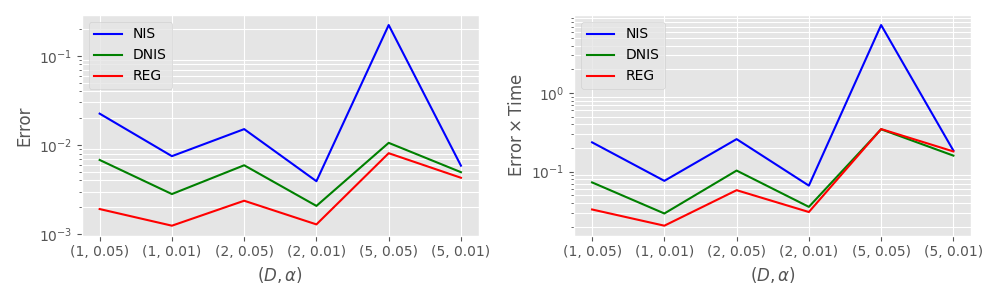
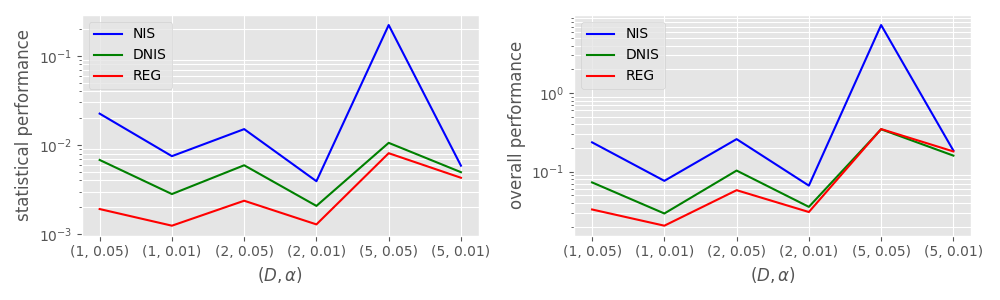
abc

Changed region(s): [[0.0, 0.09, 0.031, 0.75], [0.496, 0.15, 0.527, 0.69]]

diff --git a/niscv_v2/analysis/real/garch_estimate.py b/niscv_v2/analysis/real/garch_estimate.py
@@ -46,8 +46,10 @@ def main():
 
     ax[0].set_xlabel(r'$(D,\alpha)$')
     ax[1].set_xlabel(r'$(D,\alpha)$')
-    ax[0].set_ylabel('Error')
-    ax[1].set_ylabel(r'$\mathrm{Error}\times\mathrm{Time}$')
+    # ax[0].set_ylabel('Error')
+    # ax[1].set_ylabel(r'$\mathrm{Error}\times\mathrm{Time}$')
+    ax[0].set_ylabel('statistical performance')
+    ax[1].set_ylabel('overall performance')
     for a in ax:
         a.legend(loc=2)
         a.grid(axis='x', which='major')
